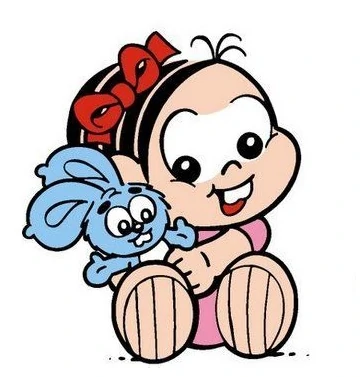
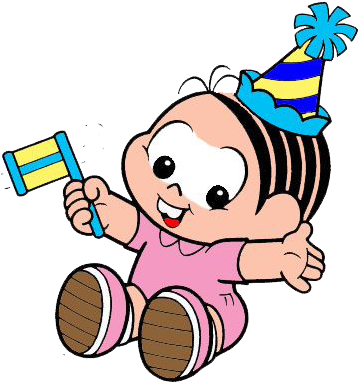
js para mudança de imagem e cor d fundo

diff --git a/index.html b/index.html
@@ -15,12 +15,12 @@
   <main>
     <section class="body">
       <div class="characteristics">
-        <p class="age-status"><strong>Estágio:</strong> Criança</p>
-        <p class="age-status"><strong>Idade:</strong> 7 anos</p>
-        <button class="button">Alterar Situação</button>
+        <p class="status"> </p>
+        <p class="age"><strong>Idade:</strong> </p>
+        <button class="button" onclick=changeAvatar()>ALTERAR</button>
       </div>
       <div class="image">
-        <img src="./images/monica.png" alt="imagem da Mônica" />
+        <img src="./images/monica_baby.png" alt="imagem da Mônica" id="figure" />
       </div>
     </section>
   </main>
@@ -30,5 +30,6 @@
       Para outros projetos, entre no <a target=_blank href="https://github.com/c-Tos1wa">GITHUB</a>.
     </p>
   </footer>
+  <script src="./script.js"></script>
 </body>
 </html>

diff --git a/style.css b/style.css
@@ -21,7 +21,7 @@ body{
 }
 
 .body {
-  background-color: #FF5A5F;
+  background-color: #fe9ac7;
   display: flex;
   flex-direction:row-reverse;
   justify-content: space-evenly;
@@ -31,6 +31,7 @@ body{
 
 .body .image{
   margin-top: 16px;
+  height: auto;
 }
 
 .characteristics {
@@ -38,10 +39,15 @@ body{
   flex-direction: column;
   align-items: center;
   flex-wrap: wrap; 
+  font-size: 25px;
 }
 
-.age-status{
-  font-size: 25px;  
+.age{
+  font-size: inherit;  
+}
+
+.status{
+  font-size: inherit;
 }
 
 .button {
@@ -84,7 +90,11 @@ body{
   }
 
   .body .button {
-    margin: 15px;
+    margin: 15px 0;
+  }
+
+  .characteristics .age-status{
+    font-size: 18px;
   }
 
   .footer {

diff --git a/script.js b/script.js
@@ -1,0 +1,12 @@
+const bgColor = document.getElementsByClassName('body')[0];
+const img = document.getElementById('figure');
+const text = document.querySelector('.status').value;
+
+
+function changeAvatar(){
+  bgColor.style.backgroundColor = "#e40043";
+  
+  img.setAttribute('src', './images/monica_jovem.png');
+  
+  text.innerHTML = "Estágio: Baby";
+}
